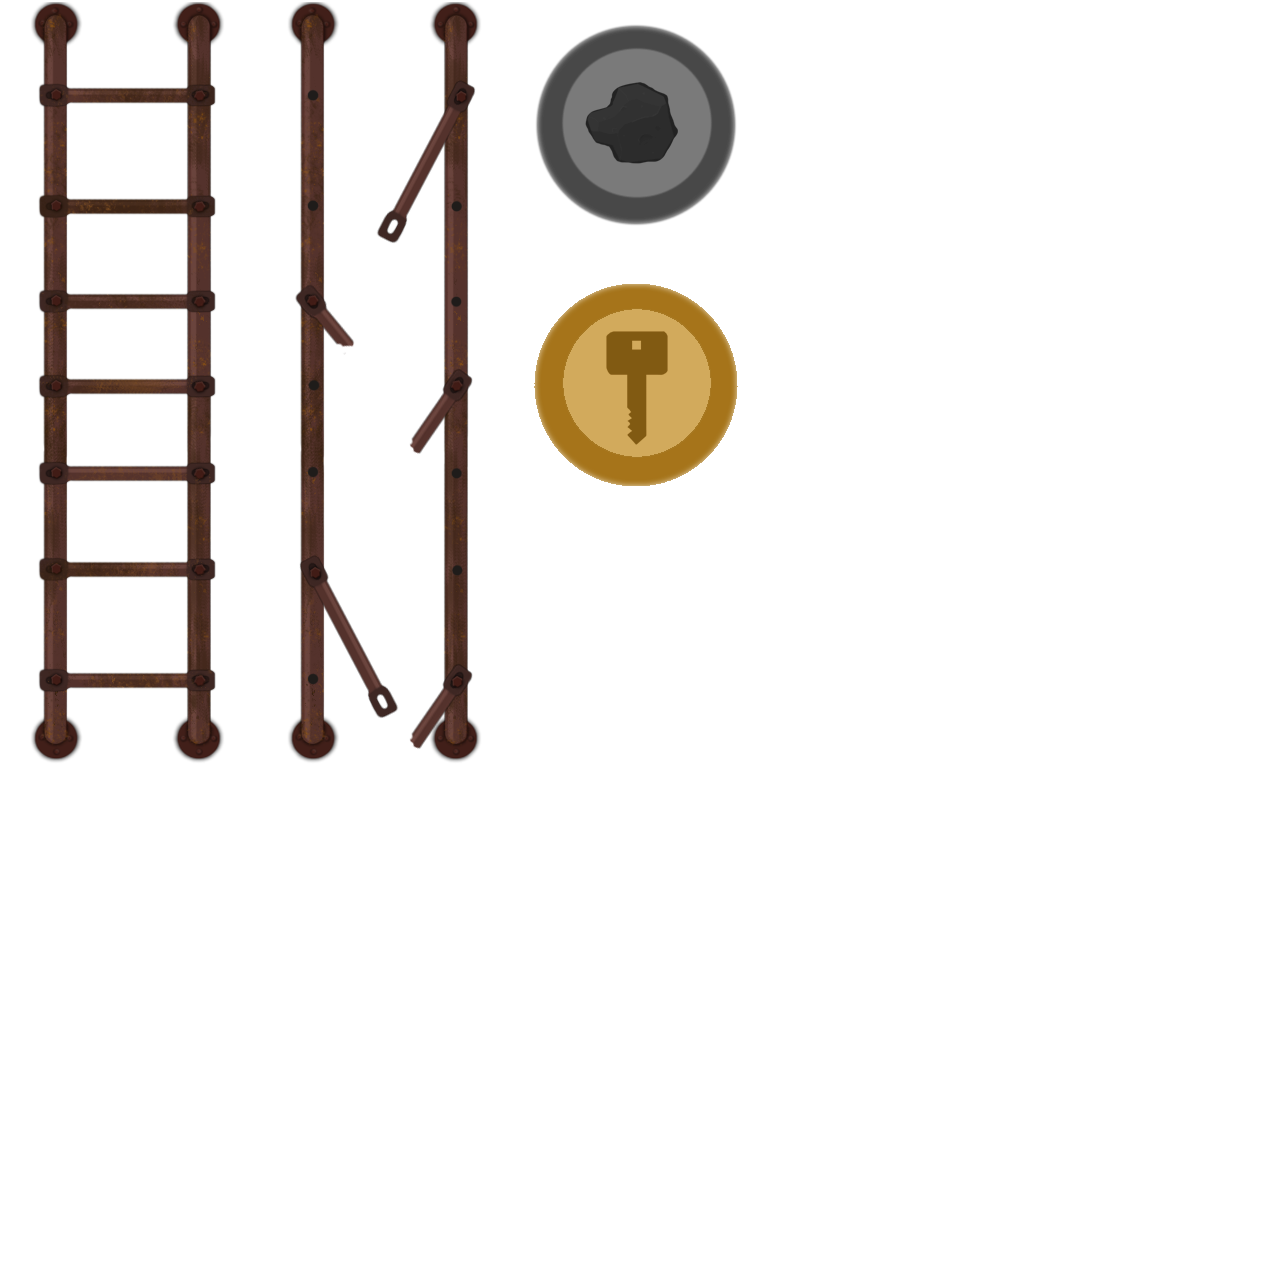
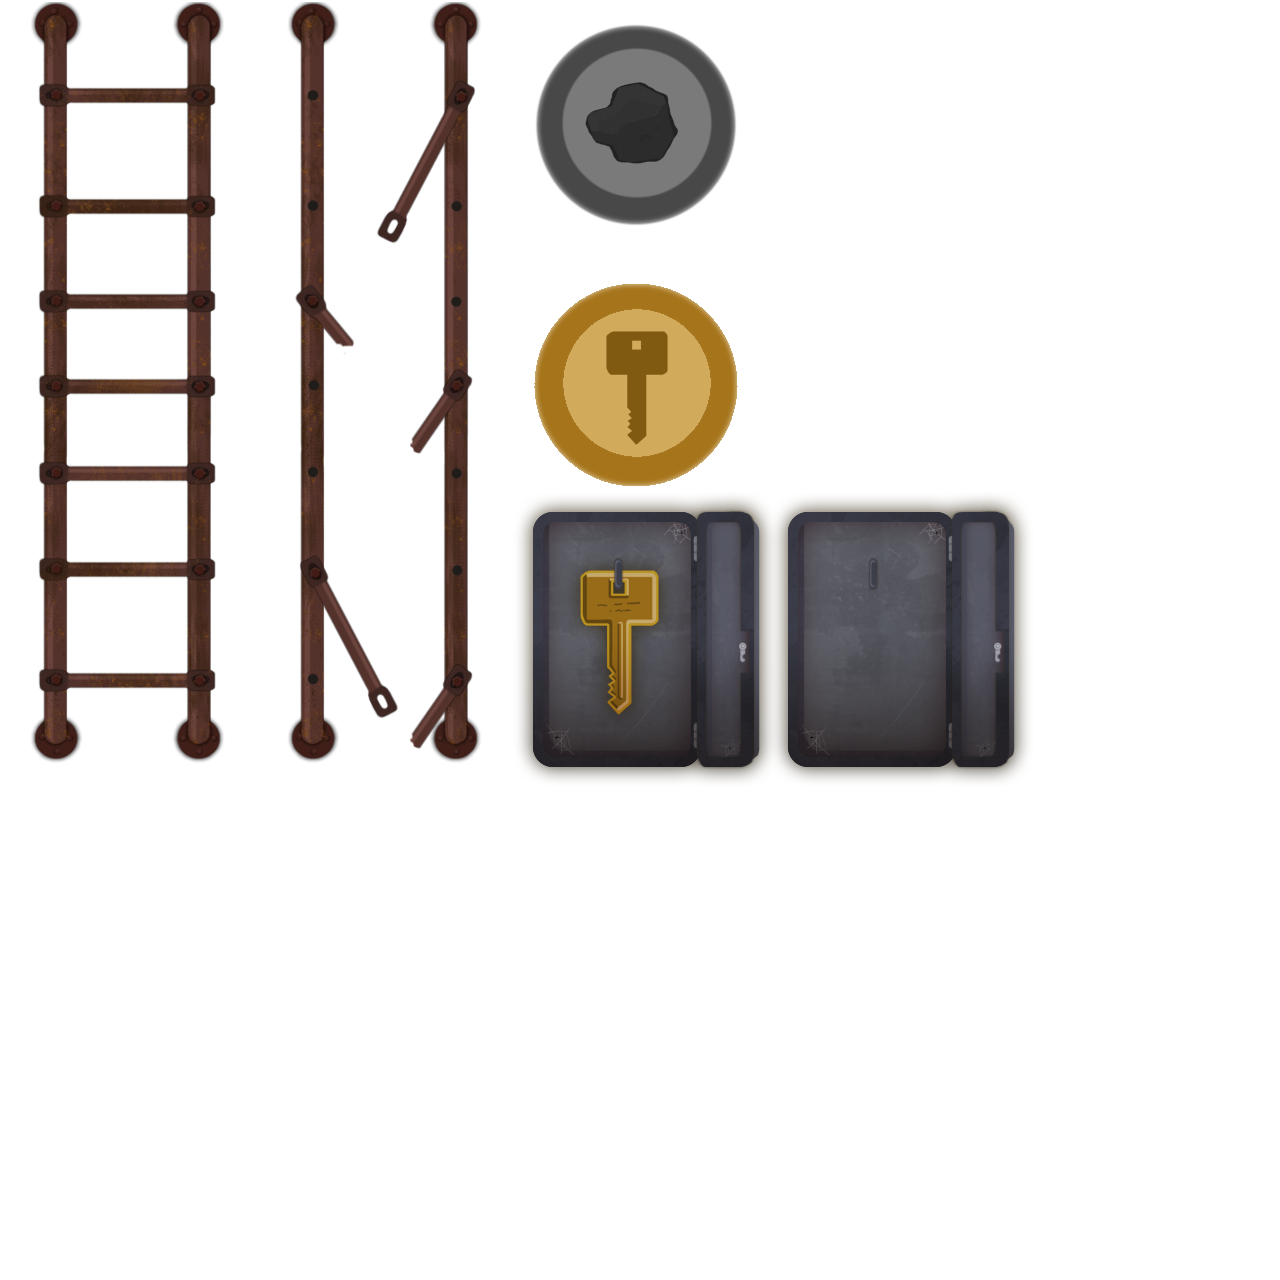
Added key box.

Changed region(s): [[0.4062, 0.375, 0.8125, 0.625]]

diff --git a/Assets/Script/Environment Object Scripts/Door/K_Manager.cs b/Assets/Script/Environment Object Scripts/Door/K_Manager.cs
@@ -6,12 +6,15 @@ public class K_Manager : MonoBehaviour {
 
     [SerializeField] private int keyNumber;
     public GameObject[] p;
+    [SerializeField] Sprite keyGoneSprite;
+    private SpriteRenderer sr;
 
 	// Use this for initialization
 	void Start () {
         p = new GameObject[2];
         p[0] = GameObject.FindGameObjectWithTag("Player");
         p[1] = GameObject.FindGameObjectWithTag("Player2");
+        sr = GetComponent<SpriteRenderer>();
 	}
 	
 	// Update is called once per frame
@@ -19,7 +22,7 @@ public class K_Manager : MonoBehaviour {
 		for(int i=0; i<p.Length; i++){
             if (this.GetComponent<BoxCollider2D>().IsTouching(p[i].GetComponent<BoxCollider2D>()) && p[i].GetComponent<P_keyHold>().keyNum == 0){
                 p[i].GetComponent<P_keyHold>().keyNum = keyNumber;
-                Destroy(this.gameObject, 0.25f);
+                sr.sprite = keyGoneSprite;
             }
         }
 	}
